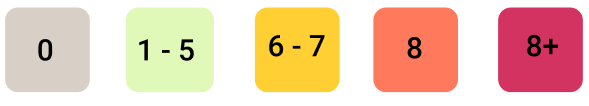
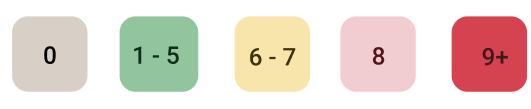
[edited] edited color list

diff --git a/Frontend/src/app/avaliable-form/avaliable-form.component.html b/Frontend/src/app/avaliable-form/avaliable-form.component.html
@@ -1,9 +1,7 @@
 <div class="card">
   <form class="form-inline" [formGroup]="addCard" (ngSubmit)="onSubmit()">
     <div>
-      <span class="close head" title="Exit" (click)="updateComplete()"
-        >&times;</span
-      >
+      <span class="close head" title="Exit" (click)="updateComplete()">&times;</span>
     </div>
     <div class="card-body" style="border: none">
       <h6>Create Card :</h6>
@@ -12,17 +10,10 @@
           <div class="assignment">Assignment</div>
           <div class="form-group mx-sm-3 mb-2">
             <div>
-              <select
-                class="form-control"
-                id="input_assignment_id"
-                formControlName="assignmentId"
-                placeholder="choose your assignment"
-              >
+              <select class="form-control" id="input_assignment_id" formControlName="assignmentId"
+                placeholder="choose your assignment">
                 <option [ngValue]="null">choose your assignment</option>
-                <option
-                  *ngFor="let c of rAssignmentList"
-                  value="{{ c.assignmentId }}"
-                >
+                <option *ngFor="let c of rAssignmentList" value="{{ c.assignmentId }}">
                   {{ c.assignmentName }}
                 </option>
               </select>
@@ -32,50 +23,27 @@
           <div class="form-group mx-sm-3 mb-2">
             <div class="txt cardd">Card</div>
             <!-- <div>Actual time</div> -->
-            <label class="txt actualtime">Actual Time</label>
+            <label class="txt actualtime">Estimate Time per day</label>
 
-            <input
-              type="text"
-              class="form-control"
-              id="input_card_name"
-              placeholder="type your card..."
-              formControlName="cardName"
-            />
+            <input type="text" class="form-control" id="input_card_name" placeholder="type your card..."
+              formControlName="cardName" />
 
-            <input
-              type="number"
-              class="form-control"
-              id="input_actual_time"
-              placeholder="0"
-              formControlName="actualTime"
-            />
+            <input type="number" class="form-control" id="input_actual_time" placeholder="0"
+              formControlName="actualTime" />
             <!-- <p>Actual Time</p> -->
-            <div
-              *ngIf="addCard.get('cardName').hasError('pattern')"
-              class="error"
-            >
+            <div *ngIf="addCard.get('cardName').hasError('pattern')" class="error">
               Card name has invalid characters.
             </div>
-            <div
-              *ngIf="addCard.get('actualTime').hasError('max')"
-              class="error"
-            >
+            <div *ngIf="addCard.get('actualTime').hasError('max')" class="error">
               Actual time must be 1 to 24.
             </div>
-            <div
-              *ngIf="addCard.get('actualTime').hasError('min')"
-              class="error"
-            >
+            <div *ngIf="addCard.get('actualTime').hasError('min')" class="error">
               Actual time must be 1 to 24.
             </div>
           </div>
 
-          <button
-            [disabled]="addCard.status === 'INVALID'"
-            type="submit"
-            class="btn btn-primary bottom"
-            (onClick)="onSubmit()"
-          >
+          <button [disabled]="addCard.status === 'INVALID'" type="submit" class="btn btn-primary bottom"
+            (onClick)="onSubmit()">
             Submit
           </button>
         </div>
@@ -102,43 +70,19 @@
               {{ item.assignmentName }}
             </div>
           </div>
-          <span
-            class="close"
-            (click)="updateDeleteStatus(item.cardId)"
-            title="Delete Card"
-            >&times;</span
-          >
-          <form
-            [formGroup]="editCard"
-            (keydown)="keyDownFunction($event, item.cardId)"
-          >
-            <input
-              type="number"
-              class="form-control editInput"
-              id="input_card_actual_time_{{ i }}"
-              max="16"
-              maxlength="2"
-              placeholder="{{ item.actualTime }}"
-              formControlName="cardActualTime"
-            />
-            <button
-              class="btn btn-primary bottom editbtn"
-              [disabled]="editCard.status === 'INVALID'"
-              (click)="updateFunction(item.cardId)"
-            >
+          <span class="close" (click)="updateDeleteStatus(item.cardId)" title="Delete Card">&times;</span>
+          <form [formGroup]="editCard" (keydown)="keyDownFunction($event, item.cardId)">
+            <input type="number" class="form-control editInput" id="input_card_actual_time_{{ i }}" max="16"
+              maxlength="2" placeholder="{{ item.actualTime }}" formControlName="cardActualTime" />
+            <button class="btn btn-primary bottom editbtn" [disabled]="editCard.status === 'INVALID'"
+              (click)="updateFunction(item.cardId)">
               Update
             </button>
 
-            <div
-              *ngIf="editCard.get('cardActualTime').hasError('max')"
-              class="error"
-            >
+            <div *ngIf="editCard.get('cardActualTime').hasError('max')" class="error">
               Actual time must be 1 to 24.
             </div>
-            <div
-              *ngIf="editCard.get('cardActualTime').hasError('min')"
-              class="error"
-            >
+            <div *ngIf="editCard.get('cardActualTime').hasError('min')" class="error">
               Actual time must be 1 to 24.
             </div>
           </form>

diff --git a/Frontend/src/app/avaliable-time/avaliable-time.component.html b/Frontend/src/app/avaliable-time/avaliable-time.component.html
@@ -65,6 +65,7 @@
         <div class="col-lg-10 col-xl-10 color-list" style="display: flex; align-items: center">
           <div class="col big-color-box ">
             <div class="row color-box-list">
+              <mat-icon class="list-icon">query_builder</mat-icon>
               <li class="color-box-top" *ngFor="let item of r['cards']"
                 (click)="open(content, [{ 'userId': r.userId, 'cards': item }, r])">
 
@@ -81,6 +82,7 @@
             </div>
             <hr class="solid" />
             <div class="row color-box-list">
+              <mat-icon class="list-icon">alarm_on</mat-icon>
               <li class="color-box" *ngFor="let item of r['cards']"
                 [ngStyle]="{ backgroundColor: item.totalActualTime | color }"
                 (click)="open(content, [{ 'userId': r.userId, 'cards': item }, r])">

diff --git a/Frontend/src/app/assignment-list/assignment-list.component.html b/Frontend/src/app/assignment-list/assignment-list.component.html
@@ -43,12 +43,13 @@
 
           <hr class="solid" />
           <div class="progress1">
-          <span>progress :</span>
-          <span  class="progress-bar1">
-          <mat-progress-bar mode="determinate" value = "{{r.totalActualTime / r.estimateTime *100 }}" ></mat-progress-bar>
-          </span>
-        </div>
-        <div>end date : </div>
+            <span>progress :</span>
+            <span class="progress-bar1">
+              <mat-progress-bar mode="determinate" value="{{r.totalActualTime / r.estimateTime *100 }}">
+              </mat-progress-bar>
+            </span>
+          </div>
+          <div>end date : </div>
           <div class="d-flex" title="billable time">
             <div class="d-flex">
               <i class="material-icons md-18">ic_monetization_on</i>

diff --git a/Frontend/src/app/app.module.ts b/Frontend/src/app/app.module.ts
@@ -17,6 +17,7 @@ import { BrowserModule } from '@angular/platform-browser';
 import { NgModule } from '@angular/core';
 import { FormsModule, ReactiveFormsModule } from '@angular/forms';
 import { AppRoutingModule } from './app-routing.module';
+import { MatIconModule } from '@angular/material/icon';
 import { AppComponent } from './app.component';
 import { CardComponent } from './card/card.component';
 import { HttpClientModule } from '@angular/common/http';
@@ -63,6 +64,7 @@ import { BrowserAnimationsModule } from '@angular/platform-browser/animations';
     AppRoutingModule,
     FormsModule,
     HttpClientModule,
+    MatIconModule,
     ReactiveFormsModule,
     MDBBootstrapModule.forRoot(),
     NgbModule,

diff --git a/Frontend/src/app/avaliable-time/avaliable-time.component.css b/Frontend/src/app/avaliable-time/avaliable-time.component.css
@@ -159,13 +159,15 @@ a {
   align-items: center;
   justify-content: space-around;
 }
-
+.list-icon{
+  align-self: center;
+  font-size: 20px;
+}
 
 
 .color-list {
   display: flex;
   align-items: center;
   justify-content: space-around;
-  padding-left: 3.5%;
   padding-right: 1px;
 }
